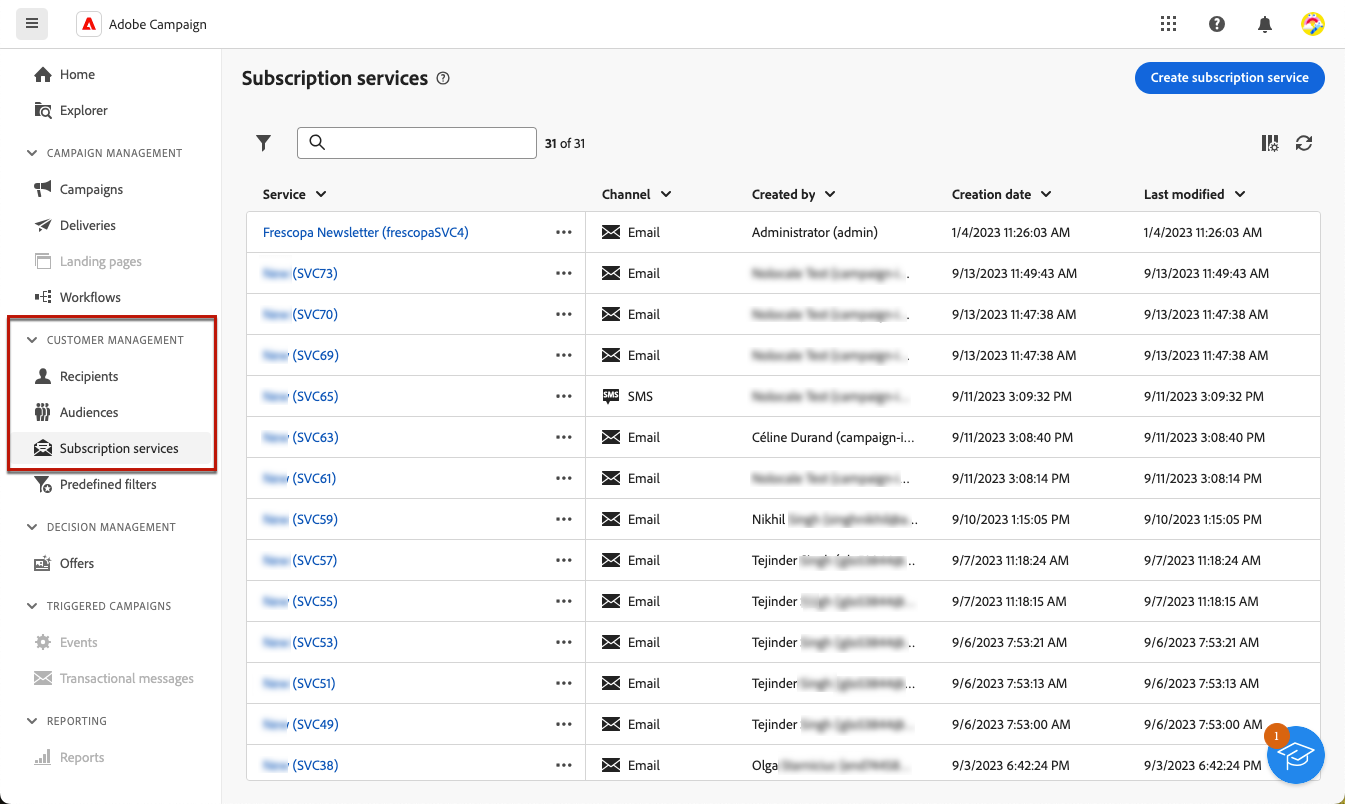
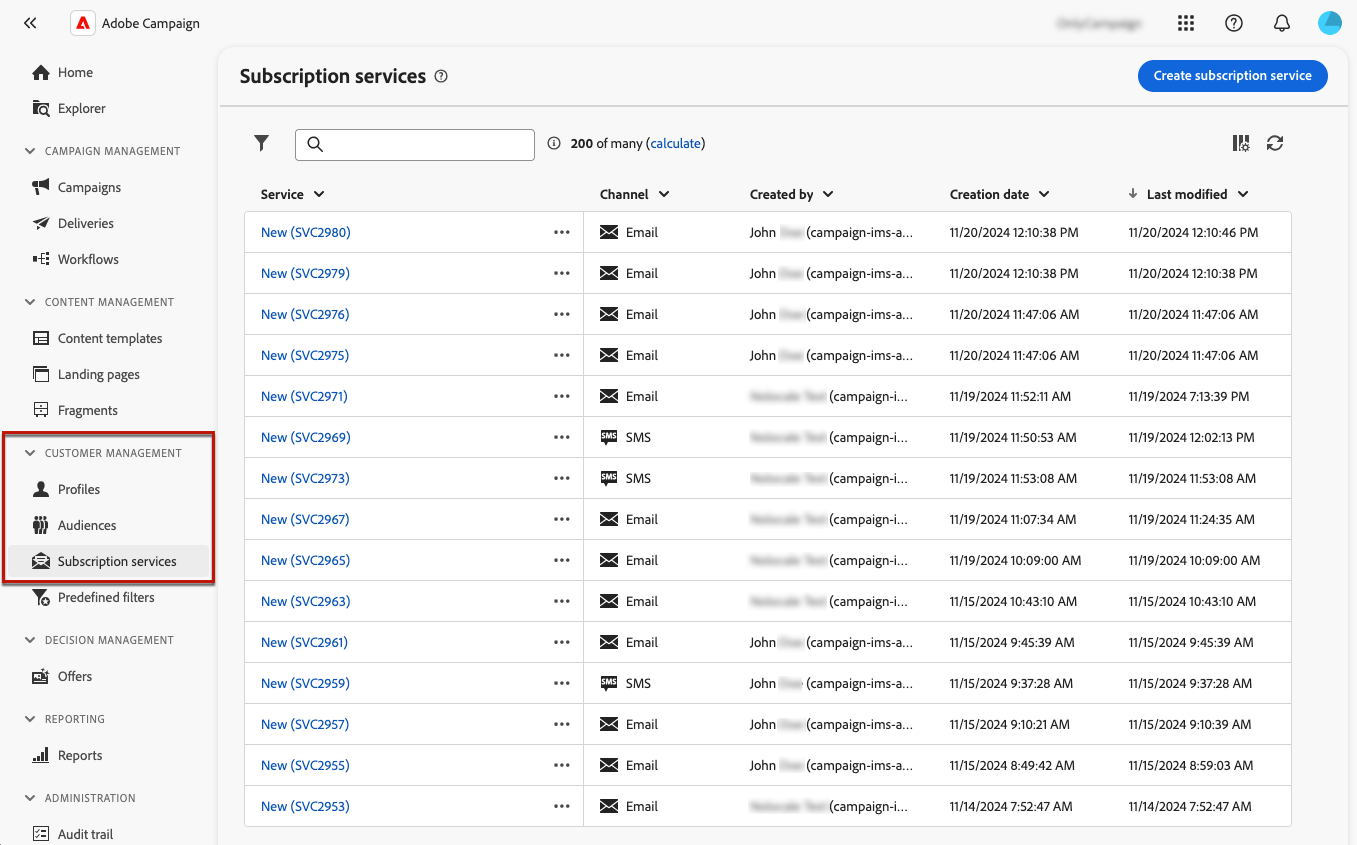
DOCAC-11041
LP update - left menu entry UI change

diff --git a/help/v8/landing-pages/create-lp.md b/help/v8/landing-pages/create-lp.md
@@ -17,11 +17,15 @@ The Campaign Web user interface allows you to create, design, and publish landin
 
 ## Access landing pages {#access-landing-pages}
 
-To access the landing page list, select **[!UICONTROL Campaign management]** > **[!UICONTROL Landing pages]** from the left menu.
+To access the landing page list, select **[!UICONTROL Content management]** > **[!UICONTROL Landing pages]** from the left menu.
 
 ![](assets/lp-inventory.png){zoomable="yes"}
 
-The **[!UICONTROL Landing pages]** inventory displays all the created items. You can filter them using the **[!UICONTROL Show filters]** button. You can restrict the results to a specific [folder](../get-started/permissions.md#folders) using the drop-down list, or add rules using the [query modeler](../query/query-modeler-overview.md).
+The **[!UICONTROL Landing pages]** inventory displays all the created items. You can filter them using the **[!UICONTROL Show filters]** button.
+
+* You can filter on the items you created or modified.
+
+* You can restrict the results to a specific [folder](../get-started/permissions.md#folders) using the drop-down list, or add rules using the [query modeler](../query/query-modeler-overview.md).
 
 ![](assets/lp-inventory-filter.png){zoomable="yes"}
 

diff --git a/help/v8/audience/manage-services.md b/help/v8/audience/manage-services.md
@@ -23,7 +23,7 @@ Several services can be defined in parallel, for example: newsletters for specif
 
 To access subscription services available for your platform, follow the steps below.
 
-1. Browse to the **[!UICONTROL Subscription services]** menu on the left navigation rail.
+1. Browse to the **[!UICONTROL Subscription services]** menu on the left navigation rail, under **[!UICONTROL Customer management]**.
 
     ![](assets/service-list.png){zoomable="yes"}
 
